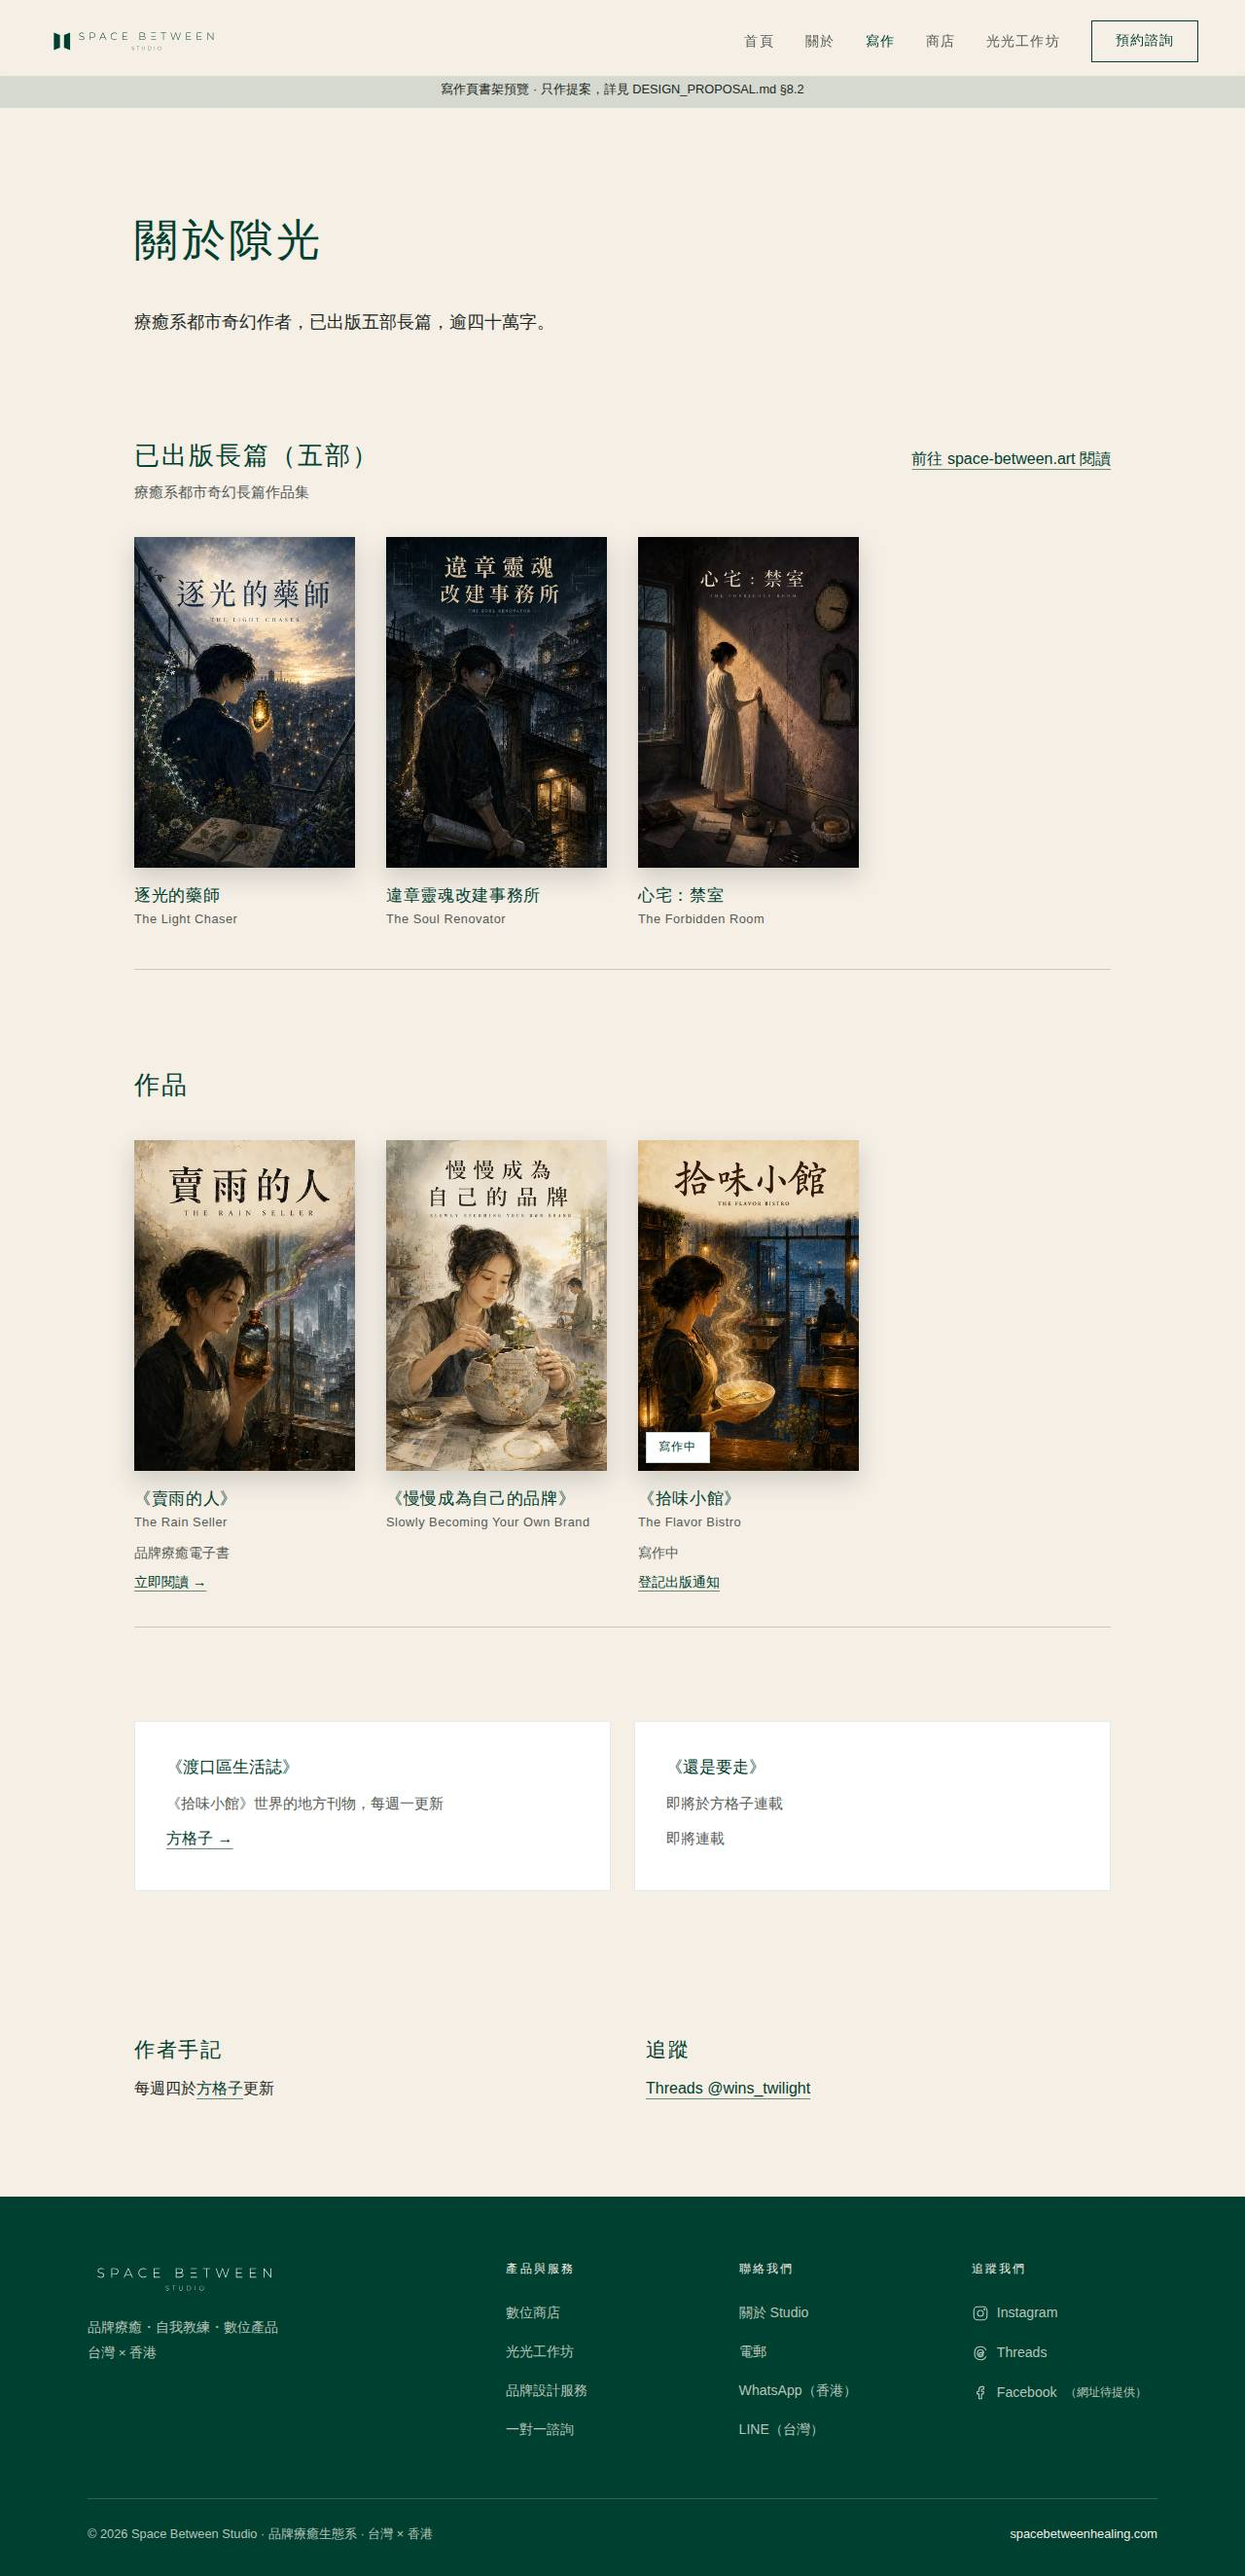
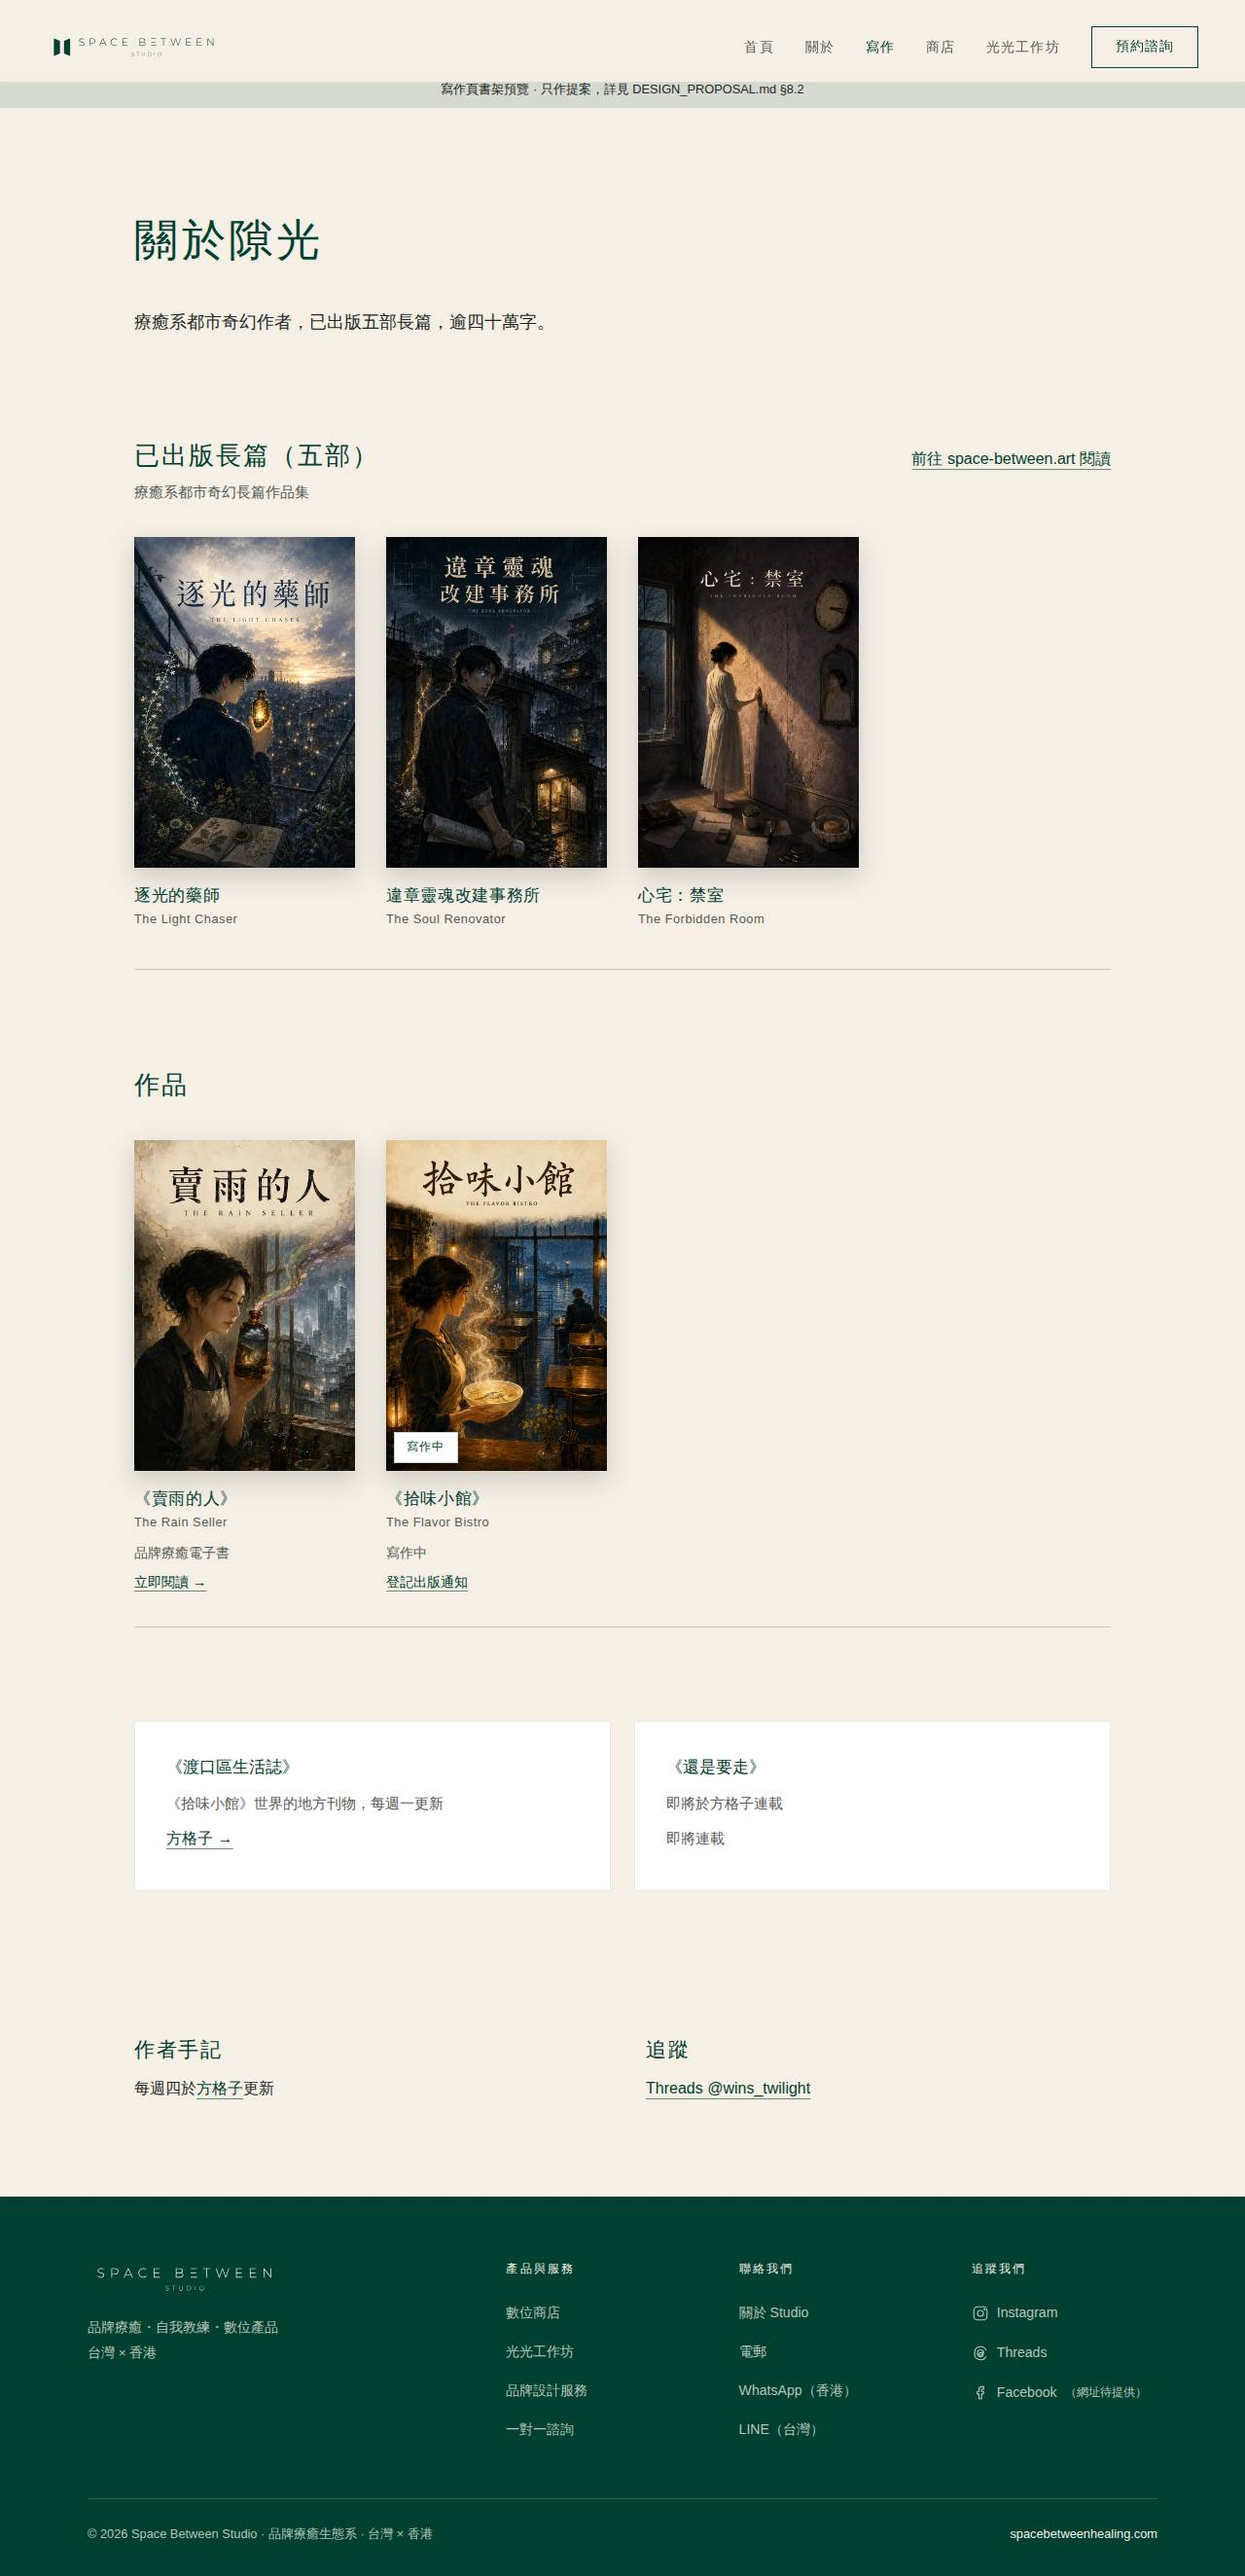
《賣雨的人》全站換新封面；自我教練卡用真實封面；書架預覽移除 publisher 及《慢慢成為自己的品牌》
正式頁面（按指示）：
- index.html：賣雨的人產品卡 emoji 換成新封面（WebP + srcset）
- selection.html：賣雨的人產品圖換新封面（完整顯示不裁切）；
  og:image 改為絕對網址 assets/og/mai-yu-de-ren-og.jpg，加尺寸及 alt
- audiobook/rain-seller：專輯封面換新封面

預覽及資產：
- assets/covers/pin-pai-jin-xian-zi-wo-jiao-lian-ka-400/800.webp
- preview/home-v2.html：自我教練卡改用真實封面，移除文字封面
- preview/writing-v2.html：移除《慢慢成為自己的品牌》；JSON-LD 移除所有 publisher
- DESIGN_PROPOSAL.md：§2.2／§2.3（位置 ⑥ 取消）、§6、§7、§8 更新

Claude-Session: https://claude.ai/code/session_012DA8veCG83w1Zocv5XQUeZ

diff --git a/preview/writing-v2.html b/preview/writing-v2.html
@@ -17,7 +17,7 @@
   <meta name="twitter:card" content="summary_large_image">
 
   <!-- 合併版 JSON-LD：以 writing/index.html 現有 @graph 為基礎，只加入 site-covers 的新欄位與新書。
-       未寫 bookFormat（待確認版本）；《拾味小館》維持 Draft，不加 publisher。 -->
+       未寫 bookFormat（待確認版本）、不寫 publisher；《拾味小館》維持 Draft。 -->
   <script type="application/ld+json">
   {
     "@context": "https://schema.org",
@@ -54,10 +54,7 @@
           "@id": "https://spacebetweenstudio.site/writing/#xiguang"
         },
         "inLanguage": "zh-Hant",
-        "image": "https://spacebetweenstudio.site/assets/covers/zhu-guang-de-yao-shi-800.webp",
-        "publisher": {
-          "@id": "https://spacebetweenstudio.site/#studio"
-        }
+        "image": "https://spacebetweenstudio.site/assets/covers/zhu-guang-de-yao-shi-800.webp"
       },
       {
         "@type": "Book",
@@ -68,10 +65,7 @@
           "@id": "https://spacebetweenstudio.site/writing/#xiguang"
         },
         "inLanguage": "zh-Hant",
-        "image": "https://spacebetweenstudio.site/assets/covers/wei-zhang-ling-hun-gai-jian-shi-wu-suo-800.webp",
-        "publisher": {
-          "@id": "https://spacebetweenstudio.site/#studio"
-        }
+        "image": "https://spacebetweenstudio.site/assets/covers/wei-zhang-ling-hun-gai-jian-shi-wu-suo-800.webp"
       },
       {
         "@type": "Book",
@@ -82,10 +76,7 @@
           "@id": "https://spacebetweenstudio.site/writing/#xiguang"
         },
         "inLanguage": "zh-Hant",
-        "image": "https://spacebetweenstudio.site/assets/covers/xin-zhai-jin-shi-800.webp",
-        "publisher": {
-          "@id": "https://spacebetweenstudio.site/#studio"
-        }
+        "image": "https://spacebetweenstudio.site/assets/covers/xin-zhai-jin-shi-800.webp"
       },
       {
         "@type": "Book",
@@ -97,25 +88,8 @@
         },
         "inLanguage": "zh-Hant",
         "image": "https://spacebetweenstudio.site/assets/covers/mai-yu-de-ren-800.webp",
-        "publisher": {
-          "@id": "https://spacebetweenstudio.site/#studio"
-        },
         "description": "品牌療癒電子書",
         "url": "https://spacebetweenstudio.site/selection.html"
-      },
-      {
-        "@type": "Book",
-        "@id": "https://spacebetweenstudio.site/writing/#man-man-cheng-wei-zi-ji-de-pin-pai",
-        "name": "慢慢成為自己的品牌",
-        "alternateName": "Slowly Becoming Your Own Brand",
-        "author": {
-          "@id": "https://spacebetweenstudio.site/writing/#xiguang"
-        },
-        "inLanguage": "zh-Hant",
-        "image": "https://spacebetweenstudio.site/assets/covers/man-man-cheng-wei-zi-ji-de-pin-pai-800.webp",
-        "publisher": {
-          "@id": "https://spacebetweenstudio.site/#studio"
-        }
       },
       {
         "@type": "Book",
@@ -163,7 +137,7 @@
         "mainEntity": {
           "@type": "ItemList",
           "itemListOrder": "https://schema.org/ItemListUnordered",
-          "numberOfItems": 8,
+          "numberOfItems": 7,
           "itemListElement": [
             {
               "@type": "ListItem",
@@ -197,26 +171,19 @@
               "@type": "ListItem",
               "position": 5,
               "item": {
-                "@id": "https://spacebetweenstudio.site/writing/#man-man-cheng-wei-zi-ji-de-pin-pai"
+                "@id": "https://spacebetweenstudio.site/writing/#shi-wei-xiao-guan"
               }
             },
             {
               "@type": "ListItem",
               "position": 6,
               "item": {
-                "@id": "https://spacebetweenstudio.site/writing/#shi-wei-xiao-guan"
-              }
-            },
-            {
-              "@type": "ListItem",
-              "position": 7,
-              "item": {
                 "@id": "https://spacebetweenstudio.site/writing/#huan-shi-yao-zou"
               }
             },
             {
               "@type": "ListItem",
-              "position": 8,
+              "position": 7,
               "item": {
                 "@id": "https://spacebetweenstudio.site/writing/#du-kou-qu"
               }
@@ -616,14 +583,6 @@
           <p class="en" lang="en">The Rain Seller</p>
           <p class="meta">品牌療癒電子書</p>
           <a class="text-link" href="../selection.html">立即閱讀 →</a>
-        </li>
-        <li class="book" id="man-man-cheng-wei-zi-ji-de-pin-pai">
-          <div class="book-cover-wrap"><img class="book-cover" src="../assets/covers/man-man-cheng-wei-zi-ji-de-pin-pai-400.webp"
-                srcset="../assets/covers/man-man-cheng-wei-zi-ji-de-pin-pai-400.webp 400w, ../assets/covers/man-man-cheng-wei-zi-ji-de-pin-pai-800.webp 800w"
-                sizes="(max-width: 560px) 42vw, 200px" width="400" height="600" loading="lazy" decoding="async"
-                alt="《慢慢成為自己的品牌》封面：以金繼手法修補一只陶罐，裂縫化為金線"></div>
-          <h3>《慢慢成為自己的品牌》</h3>
-          <p class="en" lang="en">Slowly Becoming Your Own Brand</p>
         </li>
         <li class="book" id="shi-wei-xiao-guan">
           <div class="book-cover-wrap">

diff --git a/preview/home-v2.html b/preview/home-v2.html
@@ -333,30 +333,6 @@
     }
     img.cover { height: auto; object-fit: cover; }
 
-    /* 文字封面（未有設計稿的產品）：Rainforest 底、Ivory 書名、一條細金線、角落門・隙符號 */
-    .text-cover {
-      position: relative;
-      display: flex; flex-direction: column; justify-content: center;
-      padding: 12% 12%;
-      background: var(--color-rainforest);
-      color: var(--color-ivory);
-      container-type: inline-size;
-    }
-    .text-cover-title {
-      font-size: clamp(0.6rem, 11cqi, 1.5rem);
-      font-weight: var(--font-weight-light);
-      line-height: 1.5; letter-spacing: 0.1em;
-      word-break: keep-all;
-    }
-    .text-cover-thread {
-      width: 40%; height: var(--gold-thread-width);
-      margin-top: 10%;
-      background: var(--color-gold-thread-on-dark);
-    }
-    .text-cover-symbol {
-      position: absolute; right: 8%; bottom: 6%;
-      width: 32px; height: 32px;   /* 符號最小 32×32px */
-    }
     .product-badge {
       position: absolute; top: var(--space-sm); right: var(--space-sm); z-index: 1;
       padding: var(--space-3xs) var(--space-xs);
@@ -508,7 +484,6 @@
       .product-grid { gap: var(--space-md); }
       .product-card { display: grid; grid-template-columns: 40% 1fr; align-items: stretch; }
       .product-cover { padding: var(--space-xs); align-items: flex-start; }
-      .text-cover { padding: 12% 10%; }
       .cover { width: 100%; }
       .product-badge { top: auto; bottom: var(--space-xs); left: 50%; right: auto; transform: translateX(-50%); white-space: nowrap; font-size: 0.7rem; }
       .product-body { padding: var(--space-sm) var(--space-sm) var(--space-sm) var(--space-xs); }
@@ -629,11 +604,11 @@
           <div class="product-card">
             <div class="product-cover">
               <span class="product-badge">即將推出</span>
-              <div class="cover text-cover" role="img" aria-label="《品牌金線自我教練卡》文字封面">
-                <p class="text-cover-title" aria-hidden="true">品牌金線<br>自我教練卡</p>
-                <span class="text-cover-thread" aria-hidden="true"></span>
-                <img class="text-cover-symbol" src="../assets/logo/SYMBOL/SBS_SYMBOL_WH.svg" alt="" width="32" height="32">
-              </div>
+              <img class="cover" src="../assets/covers/pin-pai-jin-xian-zi-wo-jiao-lian-ka-400.webp"
+                srcset="../assets/covers/pin-pai-jin-xian-zi-wo-jiao-lian-ka-400.webp 400w, ../assets/covers/pin-pai-jin-xian-zi-wo-jiao-lian-ka-800.webp 800w"
+                sizes="(max-width: 560px) 36vw, 220px"
+                width="400" height="600" loading="lazy" decoding="async"
+                alt="《品牌金線自我教練卡》封面：女子在窗邊手持一張有金色裂紋的卡片，桌上散放著卡片，窗外是黃昏城市">
             </div>
             <div class="product-body">
               <p class="product-tag">自我教練工具</p>

diff --git a/selection.html b/selection.html
@@ -10,7 +10,10 @@
     <!-- Open Graph -->
     <meta property="og:title" content="隙光・選物店 | Space Between Selection">
     <meta property="og:description" content="品牌療癒系列數位產品 - 《賣雨的人》《慢慢成為自己的品牌》《AI 給我的第一桶金》">
-    <meta property="og:image" content="images/rain-seller-cover-new.jpg">
+    <meta property="og:image" content="https://spacebetweenstudio.site/assets/og/mai-yu-de-ren-og.jpg">
+    <meta property="og:image:width" content="1200">
+    <meta property="og:image:height" content="630">
+    <meta property="og:image:alt" content="《賣雨的人》— 隙光">
     <meta property="og:type" content="website">
     
     <!-- Google Fonts -->
@@ -242,6 +245,13 @@
         
         .product-card:hover .product-image img {
             transform: scale(1.05);
+        }
+        
+        /* 2:3 書封：完整顯示，不裁切（框是 4:5） */
+        .product-image img.book-cover {
+            object-fit: contain;
+            padding: var(--space-md);
+            background: var(--color-surface-alt);
         }
         
         /* Logo 不跟隨產品圖放大／裁切 */
@@ -666,7 +676,11 @@
             <!-- Product 1: 賣雨的人 -->
             <div class="product-card">
                 <div class="product-image">
-                    <img src="images/rain-seller-cover-new.jpg" alt="賣雨的人">
+                    <img class="book-cover" src="assets/covers/mai-yu-de-ren-800.webp"
+                         srcset="assets/covers/mai-yu-de-ren-400.webp 400w, assets/covers/mai-yu-de-ren-800.webp 800w"
+                         sizes="(max-width: 768px) 100vw, 380px"
+                         width="800" height="1200" decoding="async"
+                         alt="小說《賣雨的人》封面：女子手持裝著一場雨的玻璃瓶，窗外是雨中城市">
                     <span class="product-badge">互動式電子書</span>
                 </div>
                 <div class="product-info">

diff --git a/index.html b/index.html
@@ -259,6 +259,13 @@
       content: ''; position: absolute; inset: 0;
       background: linear-gradient(135deg, color-mix(in srgb, var(--color-river-stone) 10%, transparent), transparent);
     }
+    /* 真實封面（2:3 直身），置中於封面框內 */
+    .product-cover-img {
+      position: relative; z-index: 1;
+      height: calc(100% - var(--space-lg)); width: auto; aspect-ratio: 2 / 3;
+      object-fit: cover;
+      box-shadow: 0 8px 24px var(--color-shadow-strong);
+    }
     .product-body { padding: 2rem; flex: 1; display: flex; flex-direction: column; }
     .product-tag {
       font-size: 0.68rem; letter-spacing: 0.18em; text-transform: uppercase;
@@ -540,7 +547,7 @@
       <div class="product-grid">
 
         <a href="shop/rain.html" class="product-card">
-          <div class="product-cover">📖</div>
+          <div class="product-cover"><img class="product-cover-img" src="assets/covers/mai-yu-de-ren-400.webp" srcset="assets/covers/mai-yu-de-ren-400.webp 400w, assets/covers/mai-yu-de-ren-800.webp 800w" sizes="140px" width="400" height="600" loading="lazy" decoding="async" alt="小說《賣雨的人》封面：女子手持裝著一場雨的玻璃瓶，窗外是雨中城市"></div>
           <div class="product-body">
             <p class="product-tag">互動式電子書</p>
             <h3 class="product-name">賣雨的人</h3>

diff --git a/audiobook/rain-seller/index.html b/audiobook/rain-seller/index.html
@@ -230,7 +230,11 @@
     <!-- Album Art -->
     <div class="album-container">
         <div class="album-art">
-            <img src="/images/rain-seller-cover-new.jpg" alt="賣雨的人">
+            <img src="/assets/covers/mai-yu-de-ren-800.webp"
+                 srcset="/assets/covers/mai-yu-de-ren-400.webp 400w, /assets/covers/mai-yu-de-ren-800.webp 800w"
+                 sizes="(max-width: 480px) 80vw, 320px"
+                 width="800" height="1200" decoding="async"
+                 alt="小說《賣雨的人》封面：女子手持裝著一場雨的玻璃瓶，窗外是雨中城市">
         </div>
         <h1 class="book-title">賣雨的人</h1>
         <p class="book-subtitle">The Rain Seller · 有聲書</p>
